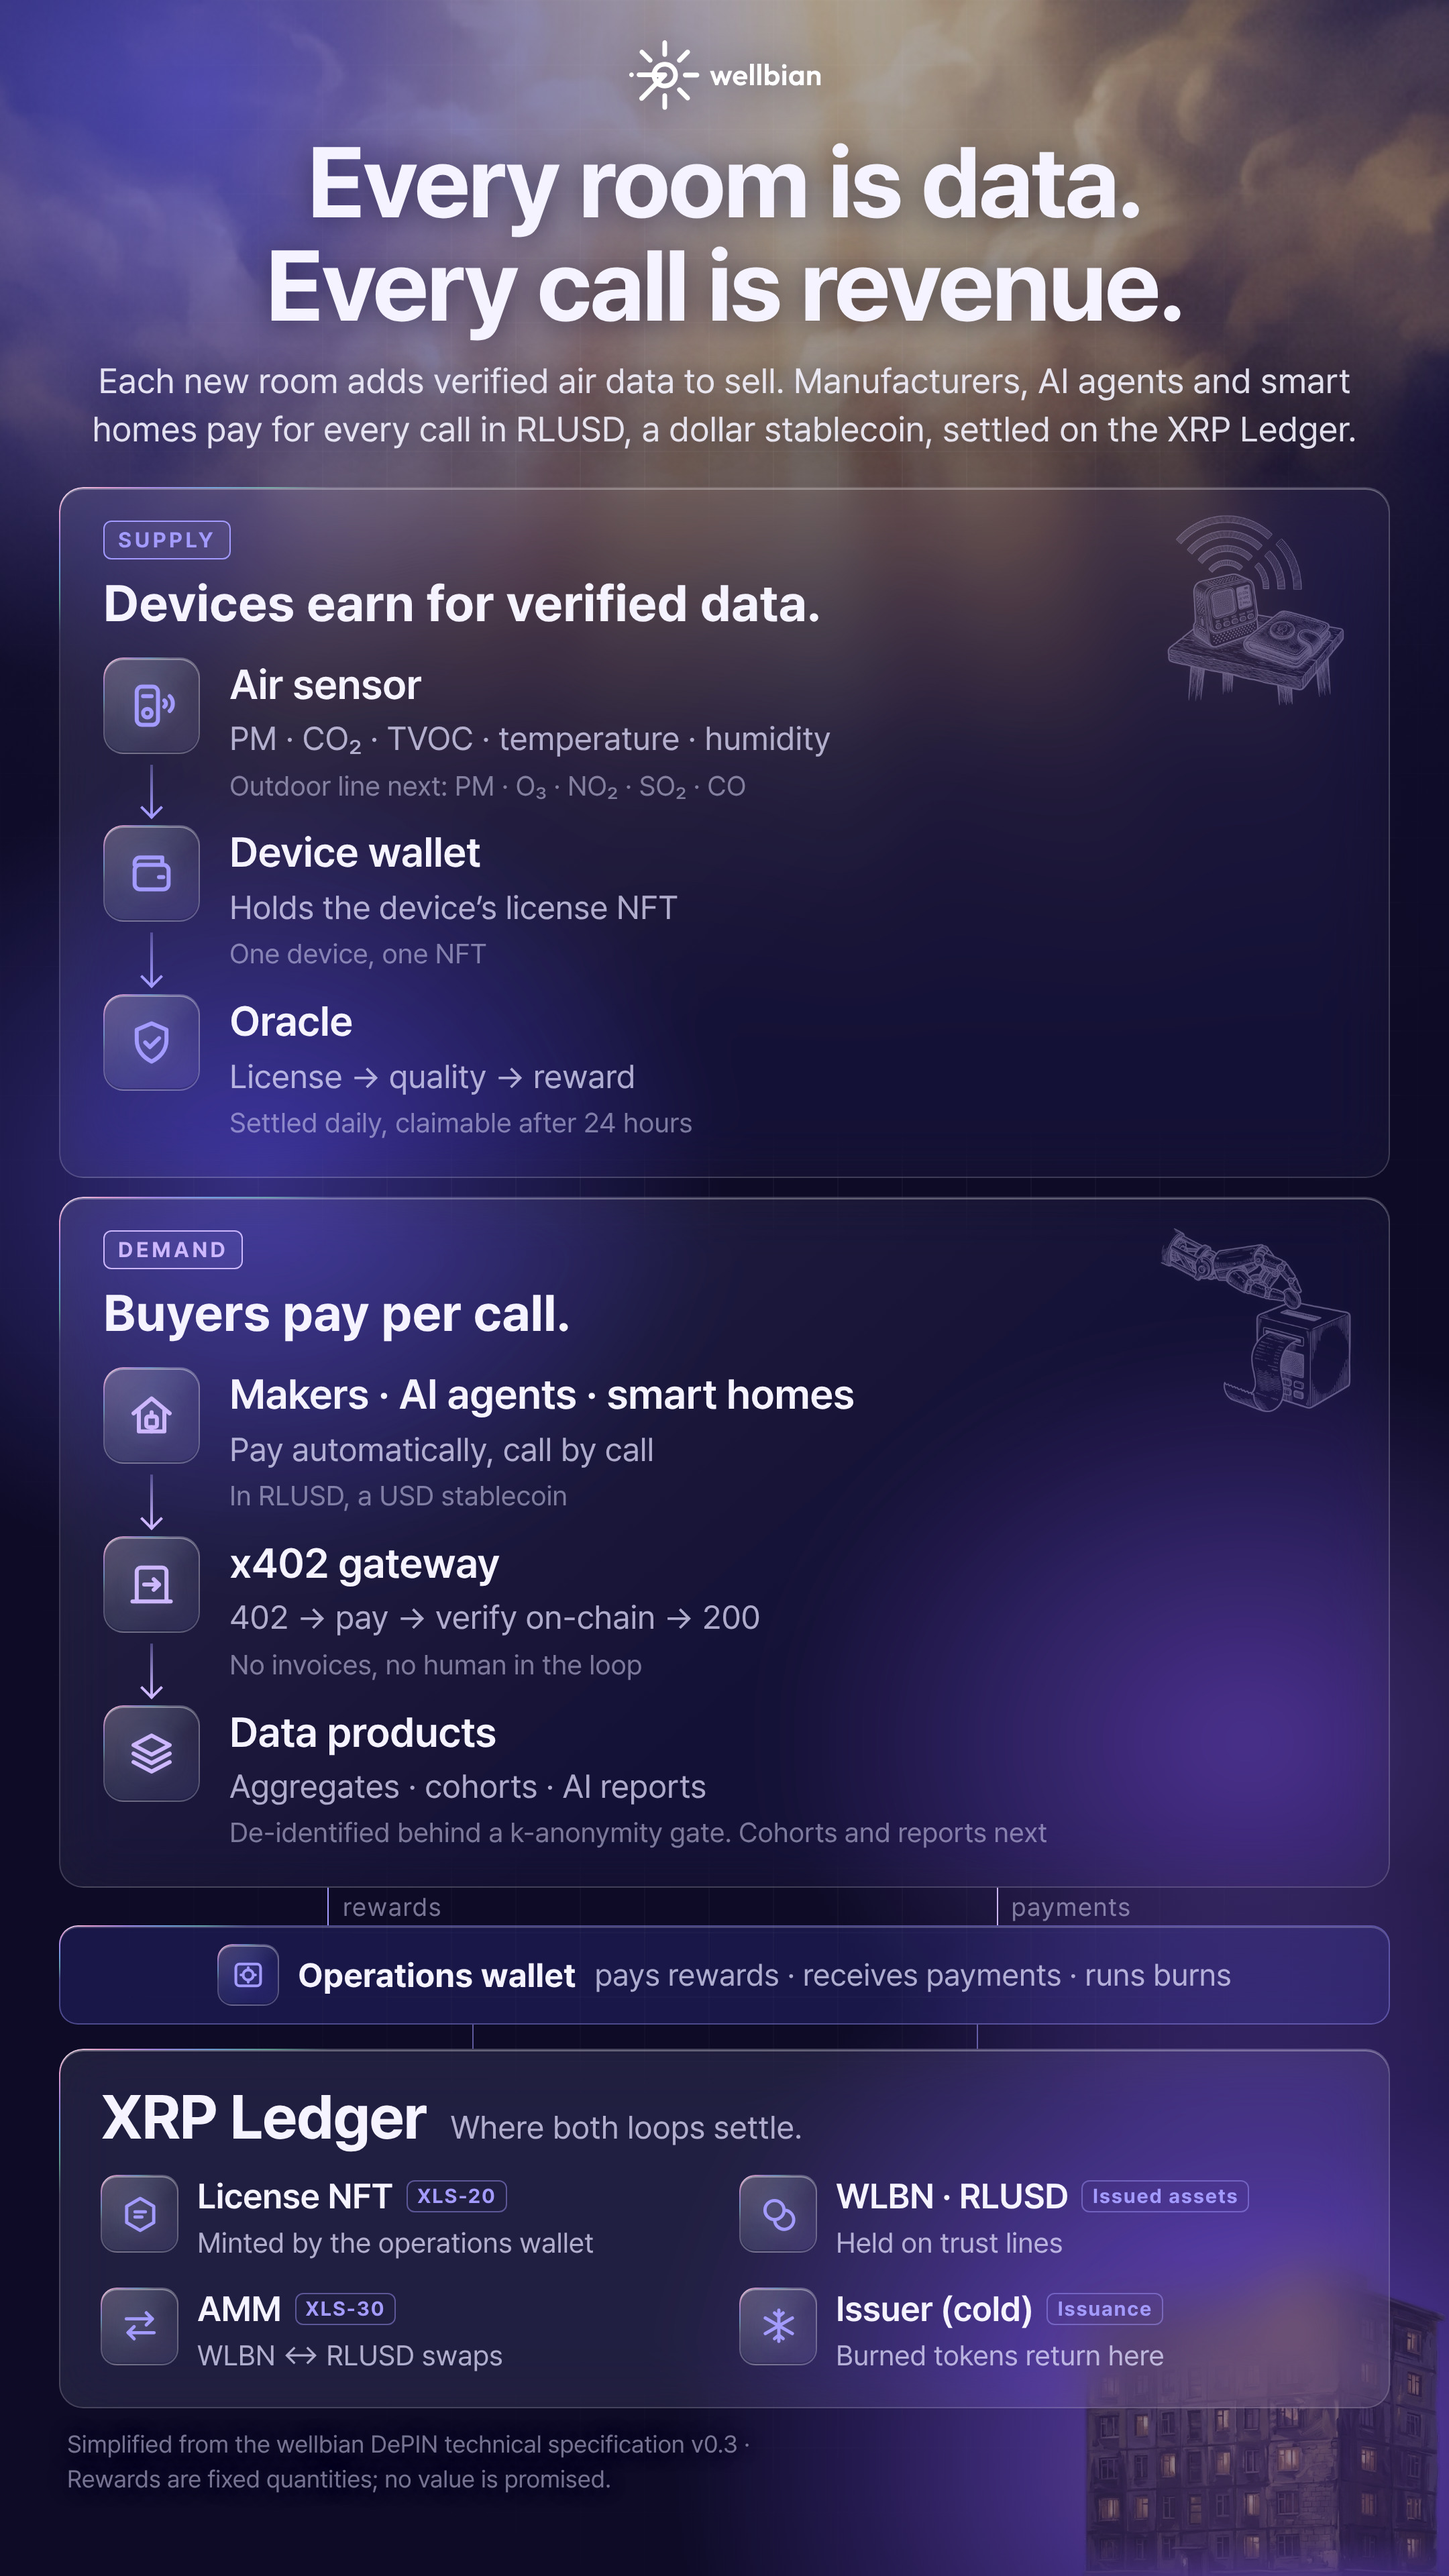
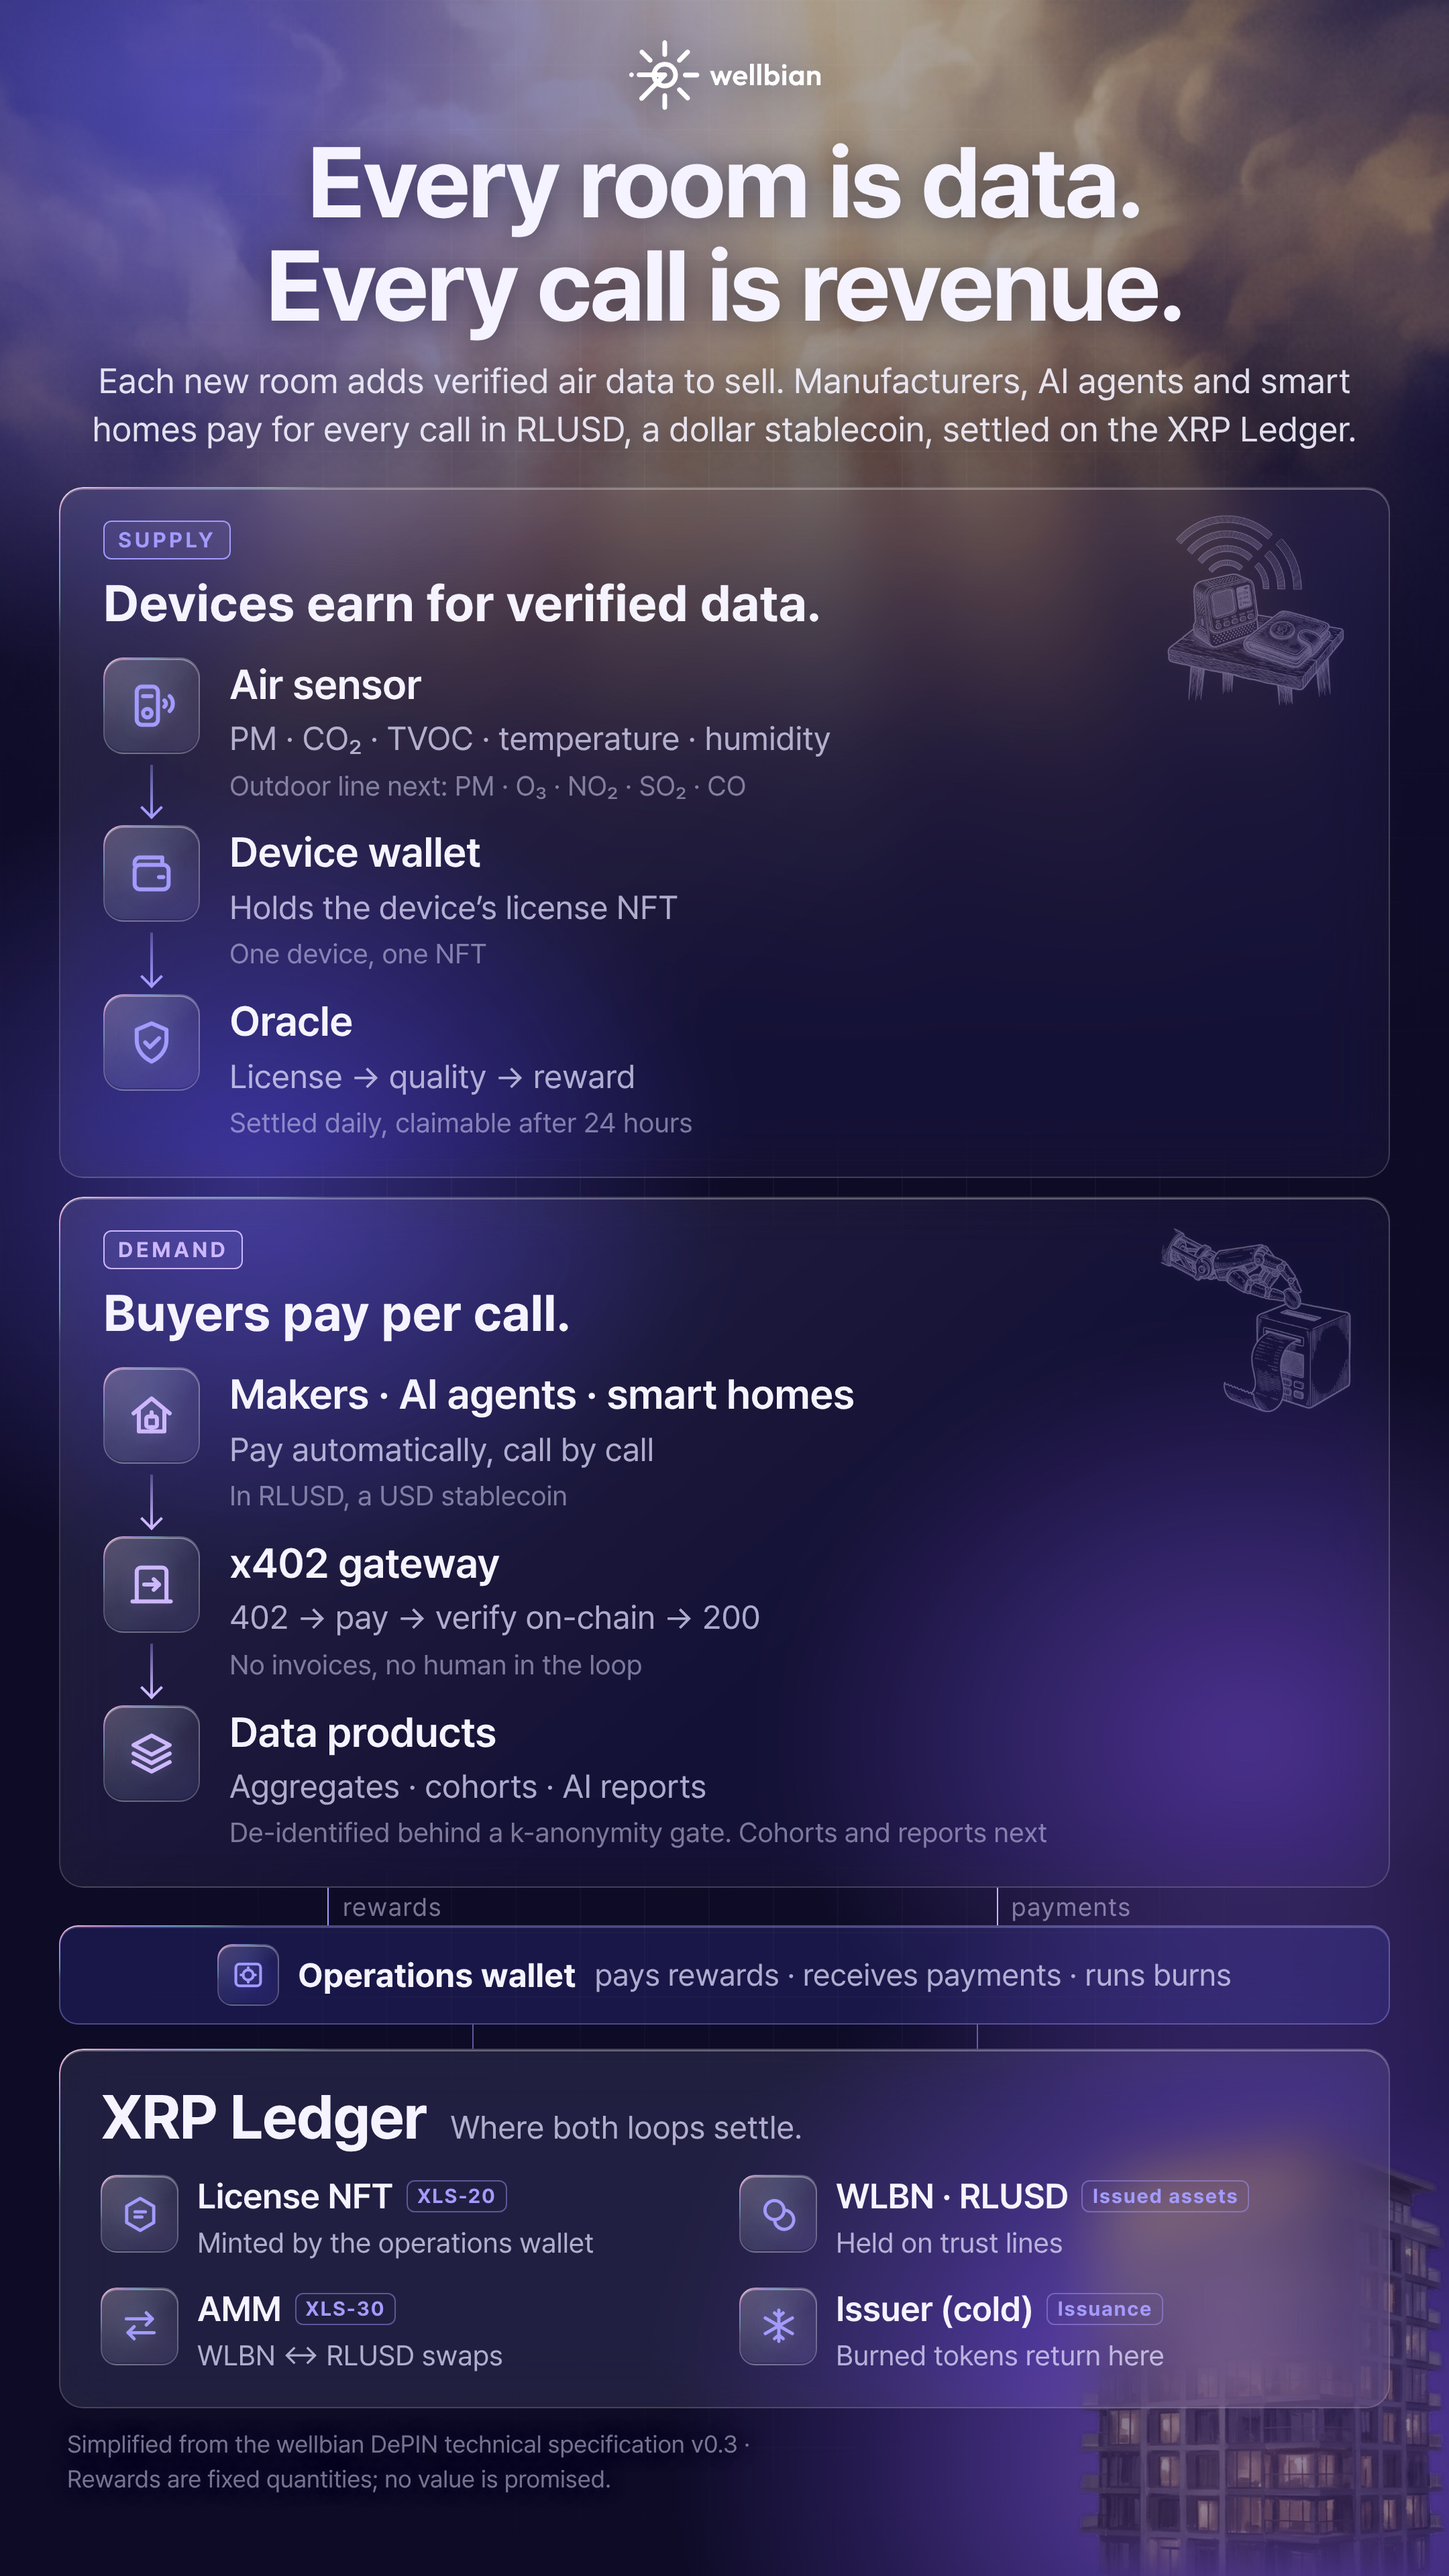
depin: modernise the buildings in series parts 1 and 2 vertical versions
Claude-Session: https://claude.ai/code/session_014drgzQYBXTLjd1zzmsjRaS

Changed region(s): [[0.7444, 0.8125, 0.9926, 1.0]]

diff --git a/depin/content/ecosystem-1021/ecosystem-en-9x16.html b/depin/content/ecosystem-1021/ecosystem-en-9x16.html
@@ -64,7 +64,7 @@ body{padding:30px 44px 0;justify-content:flex-start}
 .bgfx .paint{inset:0;border-radius:0;background:url("../ai-factory-1021/assets/light-9x16.jpg") center top/cover no-repeat;opacity:.66}
 .bgfx .paintfade{inset:0;border-radius:0;background:linear-gradient(180deg,rgba(13,11,38,0) 0%,rgba(13,11,38,.10) 14%,rgba(13,11,38,.55) 22%,rgba(13,11,38,.88) 30%,#0D0B26 40%)}
 .bgfx .bldhaze{width:560px;height:380px;right:-120px;bottom:-110px;background:radial-gradient(closest-side,rgba(255,196,120,.10),rgba(163,120,255,.06) 55%,rgba(163,120,255,0))}
-.bgfx .bld{right:-40px;bottom:-12px;width:400px;height:280px;border-radius:0;background:url("assets/homes.png") center bottom/contain no-repeat;filter:brightness(.7) saturate(.85) contrast(.96);opacity:.62;-webkit-mask-image:linear-gradient(0deg,transparent 0%,#000 14%);mask-image:linear-gradient(0deg,transparent 0%,#000 14%)}
+.bgfx .bld{right:-50px;bottom:-12px;width:540px;height:250px;border-radius:0;background:url("assets/homes.png") center bottom/contain no-repeat;filter:brightness(.7) saturate(.85) contrast(.96);opacity:.62;-webkit-mask-image:linear-gradient(0deg,transparent 0%,#000 14%);mask-image:linear-gradient(0deg,transparent 0%,#000 14%)}
 .logo{height:52px}
 .logo svg{width:143px;height:52px;filter:drop-shadow(0 2px 14px rgba(13,11,38,.5))}
 .kicker{margin-top:16px;font-size:15px;color:#E6DCFF;background:rgba(13,11,38,.58);border-color:rgba(205,184,255,.65);backdrop-filter:blur(8px);-webkit-backdrop-filter:blur(8px)}

diff --git a/depin/content/architecture-1021/architecture-en-9x16.html b/depin/content/architecture-1021/architecture-en-9x16.html
@@ -119,7 +119,7 @@ h1{margin-top:16px;font-size:74px;line-height:1.04;text-align:center;letter-spac
 .ill{position:absolute;top:16px;right:24px;width:150px;height:150px;pointer-events:none}
 .ill img{width:100%;height:100%;object-fit:contain;display:block;opacity:.38;filter:drop-shadow(0 0 4px rgba(163,155,255,.16))}
 .fg{position:absolute;inset:0;z-index:2;pointer-events:none;overflow:hidden}
-.bgfx .bld{position:absolute;right:-24px;bottom:-14px;width:330px;height:300px;border-radius:0;background:url("assets/apartment.png") center bottom/contain no-repeat;filter:brightness(.7) saturate(.85) contrast(.96);opacity:.62;-webkit-mask-image:linear-gradient(0deg,transparent 0%,#000 14%);mask-image:linear-gradient(0deg,transparent 0%,#000 14%)}
+.bgfx .bld{position:absolute;right:-10px;bottom:-14px;width:300px;height:380px;border-radius:0;background:url("assets/apartment.png") center bottom/contain no-repeat;filter:brightness(.7) saturate(.85) contrast(.96);opacity:.62;-webkit-mask-image:linear-gradient(0deg,transparent 0%,#000 14%);mask-image:linear-gradient(0deg,transparent 0%,#000 14%)}
 .bgfx .bldhaze{position:absolute;right:-120px;bottom:-110px;width:560px;height:380px;border-radius:50%;background:radial-gradient(closest-side,rgba(255,196,120,.10),rgba(163,120,255,.06) 55%,rgba(163,120,255,0))}
 body{padding:30px 44px 0;justify-content:flex-start}
 .foot{align-self:flex-start;text-align:left;max-width:640px;margin-left:6px;text-shadow:0 0 6px #0D0B26,0 0 14px #0D0B26}

diff --git a/depin/content/ecosystem-1021/build.py b/depin/content/ecosystem-1021/build.py
@@ -177,7 +177,7 @@ body{padding:30px 44px 0;justify-content:flex-start}
 .bgfx .paint{inset:0;border-radius:0;background:url("../ai-factory-1021/assets/light-9x16.jpg") center top/cover no-repeat;opacity:.66}
 .bgfx .paintfade{inset:0;border-radius:0;background:linear-gradient(180deg,rgba(13,11,38,0) 0%,rgba(13,11,38,.10) 14%,rgba(13,11,38,.55) 22%,rgba(13,11,38,.88) 30%,#0D0B26 40%)}
 .bgfx .bldhaze{width:560px;height:380px;right:-120px;bottom:-110px;background:radial-gradient(closest-side,rgba(255,196,120,.10),rgba(163,120,255,.06) 55%,rgba(163,120,255,0))}
-.bgfx .bld{right:-40px;bottom:-12px;width:400px;height:280px;border-radius:0;background:url("assets/homes.png") center bottom/contain no-repeat;filter:brightness(.7) saturate(.85) contrast(.96);opacity:.62;-webkit-mask-image:linear-gradient(0deg,transparent 0%,#000 14%);mask-image:linear-gradient(0deg,transparent 0%,#000 14%)}
+.bgfx .bld{right:-50px;bottom:-12px;width:540px;height:250px;border-radius:0;background:url("assets/homes.png") center bottom/contain no-repeat;filter:brightness(.7) saturate(.85) contrast(.96);opacity:.62;-webkit-mask-image:linear-gradient(0deg,transparent 0%,#000 14%);mask-image:linear-gradient(0deg,transparent 0%,#000 14%)}
 .logo{height:52px}
 .logo svg{width:143px;height:52px;filter:drop-shadow(0 2px 14px rgba(13,11,38,.5))}
 .kicker{margin-top:16px;font-size:15px;color:#E6DCFF;background:rgba(13,11,38,.58);border-color:rgba(205,184,255,.65);backdrop-filter:blur(8px);-webkit-backdrop-filter:blur(8px)}

diff --git a/depin/content/architecture-1021/build.py b/depin/content/architecture-1021/build.py
@@ -239,7 +239,7 @@ SKY_V = """
 .ill{position:absolute;top:16px;right:24px;width:150px;height:150px;pointer-events:none}
 .ill img{width:100%;height:100%;object-fit:contain;display:block;opacity:.38;filter:drop-shadow(0 0 4px rgba(163,155,255,.16))}
 .fg{position:absolute;inset:0;z-index:2;pointer-events:none;overflow:hidden}
-.bgfx .bld{position:absolute;right:-24px;bottom:-14px;width:330px;height:300px;border-radius:0;background:url("assets/apartment.png") center bottom/contain no-repeat;filter:brightness(.7) saturate(.85) contrast(.96);opacity:.62;-webkit-mask-image:linear-gradient(0deg,transparent 0%,#000 14%);mask-image:linear-gradient(0deg,transparent 0%,#000 14%)}
+.bgfx .bld{position:absolute;right:-10px;bottom:-14px;width:300px;height:380px;border-radius:0;background:url("assets/apartment.png") center bottom/contain no-repeat;filter:brightness(.7) saturate(.85) contrast(.96);opacity:.62;-webkit-mask-image:linear-gradient(0deg,transparent 0%,#000 14%);mask-image:linear-gradient(0deg,transparent 0%,#000 14%)}
 .bgfx .bldhaze{position:absolute;right:-120px;bottom:-110px;width:560px;height:380px;border-radius:50%;background:radial-gradient(closest-side,rgba(255,196,120,.10),rgba(163,120,255,.06) 55%,rgba(163,120,255,0))}
 body{padding:30px 44px 0;justify-content:flex-start}
 .foot{align-self:flex-start;text-align:left;max-width:640px;margin-left:6px;text-shadow:0 0 6px #0D0B26,0 0 14px #0D0B26}

diff --git a/depin/content/ecosystem-1021/README.md b/depin/content/ecosystem-1021/README.md
@@ -111,4 +111,5 @@ Rewards are quantities, never a promised value.
 - 하늘(구름 사이 금빛)은 3편과 같은 그림(`../ai-factory-1021/assets/light-9x16.jpg`, 불투명도 .66 · 아래는 남보라로 덮음) · 로고 · 제목 · 부제 그림자 · 부제 밝게.
 - 아이콘은 에칭 선화(Higgsfield, 라벤더 · 투명 배경 · 불투명도 .38 — 3편과 같은 옅기) · 오른쪽 아래 건물은 이 편 전용 회화풍 그림(배경 지우고 가장자리 깎아 흐림 · .62 · 칸 유리 뒤 배경층이라 위쪽은 흐리게 비친다).
 - 1편은 세로판이 처음 — 세 칸을 위아래로 쌓고 칸 사이에 실선 ↓(원시 측정값 · 정제 메타데이터) · 점선 ↑(기여 보상 · 데이터 이용료 + 「Revenue」) · 순환 한 줄은 반투명 유리 상자 + 점선 순환 아이콘. 아이콘: 기여자 = 집 · 사무실 · 측정기(`assets/etch-contrib.png`), 허브 = 방패 · 자물쇠 큐브 + 노드(`etch-hub.png`), 제조사 = 에어컨 · 공기청정기 · 제습기(`etch-makers.png`) · 건물 = 불 켜진 주택 · 상점(`assets/homes.png`). `python3 build.py en-9x16`.
+- **10/22 서우 「1 · 2 건물을 현대화 — 너무 올드해」**: 1편 건물 → 평지붕 · 유리 외벽 주택 둘 + 유리 사무실 + 모서리 카페(`assets/homes.png` 교체, 상자 540×250). Higgsfield 2장(4크레딧) · 같은 배경 지우기 · 가장자리 깎아 흐림.
 

diff --git a/depin/reports/work-log.md b/depin/reports/work-log.md
@@ -2536,3 +2536,4 @@ Thanks Odelia — writing to you at that address today. Mine is support@wellbian
 - **연재 Part 3 20차(10/22, 서우 「레이더 건물도 구름처럼 옅게」)** — 건물 .62 · 대비 · 채도 낮춤 · 번짐 약하게. `content/ai-factory-1021/`.
 - **연재 Part 3 21차(10/22, 서우 「건물 테두리선 어색 · 지저분」)** — 오려낸 건물의 흰 가장자리 제거(알파 2.5px 깎고 흐림) → 배경에 부드럽게 녹음. `content/ai-factory-1021/`.
 - **연재 1 · 2편 세로판을 3편 틀로 + 3편 아이콘 더 옅게(10/22, 서우 「위 구름과 해는 동일, 아이콘 · 하단부는 다른 이미지로 — 세로만」)** — 하늘 공유 · 에칭 6장 · 건물 2장(Higgsfield 16크레딧) · 1편 세로 배치 신설(`ecosystem-en-9x16`) · 2편 세로(`architecture-en-9x16`)는 원장 칸 아이콘 생략 · 건물은 유리 뒤 · 3편 에칭 .38. `content/{ecosystem,architecture,ai-factory}-1021/`.
+- **연재 1 · 2편 세로판 건물 현대화(10/22, 서우 「너무 올드해」)** — 1편 = 평지붕 · 유리 주택 · 사무실 · 카페, 2편 = 유리 · 발코니 고층 주거 타워(Higgsfield 4크레딧). `content/{ecosystem,architecture}-1021/`.

diff --git a/depin/content/architecture-1021/README.md b/depin/content/architecture-1021/README.md
@@ -146,4 +146,5 @@ Both loops settle on the XRP Ledger.
 - 하늘(구름 사이 금빛)은 3편과 같은 그림(`../ai-factory-1021/assets/light-9x16.jpg`, 불투명도 .66 · 아래는 남보라로 덮음) · 로고 · 제목 · 부제 그림자 · 부제 밝게.
 - 아이콘은 에칭 선화(Higgsfield, 라벤더 · 투명 배경 · 불투명도 .38 — 3편과 같은 옅기) · 오른쪽 아래 건물은 이 편 전용 회화풍 그림(배경 지우고 가장자리 깎아 흐림 · .62 · 칸 유리 뒤 배경층이라 위쪽은 흐리게 비친다).
 - 2편: 공급 칸 = 측정기 · 지갑 · 동전(`assets/etch-supply.png`), 수요 칸 = 로봇 손이 단말기에 동전 · 영수증(`etch-demand.png`), 원장 칸은 2×2 항목과 겹쳐 아이콘 없음(`etch-ledger.png` 남겨 둠) · 건물 = 창마다 불 켜진 아파트(`assets/apartment.png` — 「방마다 데이터」). 각주 왼쪽 정렬. `python3 build.py en-9x16`.
+- **10/22 서우 「1 · 2 건물을 현대화 — 너무 올드해」**: 2편 건물 → 유리 · 발코니 고층 주거 타워(옥상 기상 마스트, `assets/apartment.png` 교체, 상자 300×380). Higgsfield 2장(4크레딧) · 같은 배경 지우기 · 가장자리 깎아 흐림.
 
